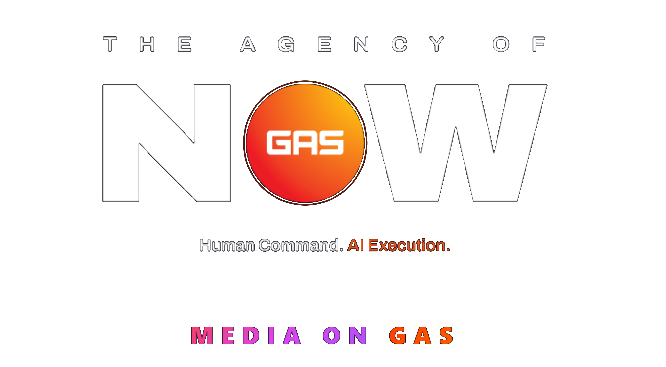
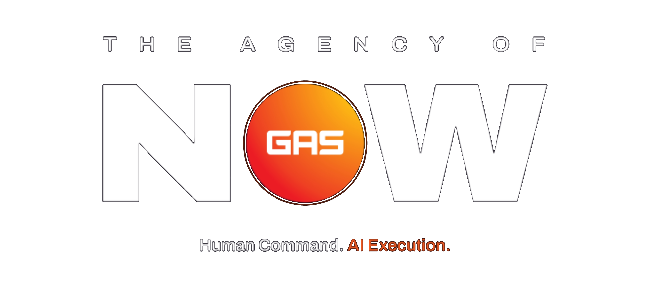
Team-report header: crop MEDIA ON GAS from PNG, render as HTML (tight stack)
Owner ask: 'make the Media on GAS wording under logo 20% bigger'
then 'close the gap between Media on GAS and Daily Pulse so
Media on GAS looks like a sub headline and then the copy underneath
Daily Pulse.'

Solution: cropped the MEDIA ON GAS section out of the PNG banner
(banner was 666x367 → now 666x295 — kept 'THE AGENCY OF NOW' +
'Human Command. AI Execution.') and re-render MEDIA ON GAS as HTML
text below the image. HTML text can be sized freely (this ask +
future asks), stays crisp at any DPR, and lets the eyebrow sit
directly under it as a related sub-line.

## MEDIA ON GAS wordmark

Font-size 30px (was baked at ~24px in the PNG, +20% ≈ 30 rounded).
Letter-spacing 6px, weight 900. Solid colors — gradient text
(-webkit-background-clip: text) is unreliable in Outlook + some
Gmail views, so hex fallbacks: 'MEDIA ON' in orchid #A855F7, 'GAS'
in ember #F96203. Matches the gradient in the source PNG at a
distance.

## Stack tightening

MEDIA ON GAS margin-bottom → 2px, eyebrow margin-top → 0. That
puts ~2px between the wordmark and 'Daily Pulse' so they read as
one unit (headline + sub-headline), with the date sitting slightly
lower as its own line.

Same treatment on all three team reports:
 - daily-report.js: 'Daily Pulse' + date
 - weekly-pulse.js: 'Weekly Pulse' + week label
 - weekly-summary.js: 'Weekly Activity Summary'

Asset unchanged path — dashboard/public/GAS_EMAIL_HEADER.png
overwritten in place, all three templates keep the same reference.
[…]

diff --git a/api/daily-report.js b/api/daily-report.js
@@ -408,7 +408,14 @@ function buildHtml(opts) {
 
       '<tr><td style="padding:28px 36px 20px;text-align:center;">' +
       logoBlock +
-      '<div style="font-size:11px;color:' + P.ember + ';letter-spacing:6px;font-weight:800;margin-top:8px;margin-bottom:4px;text-transform:uppercase;font-family:Manrope,Helvetica,Arial,sans-serif;">Daily Pulse</div>' +
+      // MEDIA ON GAS wordmark rendered as HTML text so it can be sized
+      // independently of the header image (cropped out of the PNG to
+      // separate its scale from the banner scale). Solid colors —
+      // gradient text is unreliable in Outlook + some Gmail views.
+      '<div style="font-size:30px;font-weight:900;letter-spacing:6px;text-transform:uppercase;font-family:Manrope,Helvetica,Arial,sans-serif;line-height:1;margin-top:6px;margin-bottom:2px;">' +
+        '<span style="color:#A855F7;">MEDIA ON </span><span style="color:' + P.ember + ';">GAS</span>' +
+      '</div>' +
+      '<div style="font-size:11px;color:' + P.ember + ';letter-spacing:6px;font-weight:800;margin-top:0;margin-bottom:8px;text-transform:uppercase;font-family:Manrope,Helvetica,Arial,sans-serif;">Daily Pulse</div>' +
       '<div style="font-size:11px;color:' + P.caption + ';letter-spacing:3px;text-transform:uppercase;font-weight:700;font-family:Manrope,Helvetica,Arial,sans-serif;">' + escapeHtml(dateLabel) + '</div>' +
       '</td></tr>' +
 

diff --git a/api/weekly-pulse.js b/api/weekly-pulse.js
@@ -587,7 +587,12 @@ function buildHtml(opts) {
 
       '<tr><td class="pulse-pad" style="padding:28px 36px 20px;text-align:center;">' +
       logoBlock +
-      '<div class="pulse-eyebrow" style="font-size:11px;color:' + P.ember + ';letter-spacing:6px;font-weight:800;margin-top:8px;margin-bottom:4px;text-transform:uppercase;font-family:Manrope,Helvetica,Arial,sans-serif;">Weekly Pulse</div>' +
+      // MEDIA ON GAS wordmark as HTML text — see daily-report.js for
+      // rationale (cropped out of the PNG so it can be sized freely).
+      '<div class="pulse-headline" style="font-size:30px;font-weight:900;letter-spacing:6px;text-transform:uppercase;font-family:Manrope,Helvetica,Arial,sans-serif;line-height:1;margin-top:6px;margin-bottom:2px;">' +
+        '<span style="color:#A855F7;">MEDIA ON </span><span style="color:' + P.ember + ';">GAS</span>' +
+      '</div>' +
+      '<div class="pulse-eyebrow" style="font-size:11px;color:' + P.ember + ';letter-spacing:6px;font-weight:800;margin-top:0;margin-bottom:8px;text-transform:uppercase;font-family:Manrope,Helvetica,Arial,sans-serif;">Weekly Pulse</div>' +
       '<div style="font-size:11px;color:' + P.caption + ';letter-spacing:3px;text-transform:uppercase;font-weight:700;font-family:Manrope,Helvetica,Arial,sans-serif;">' + escapeHtml(weekLabel) + '</div>' +
       '</td></tr>' +
 

diff --git a/api/weekly-summary.js b/api/weekly-summary.js
@@ -279,9 +279,14 @@ function buildHtml(opts) {
     '<table role="presentation" width="100%" cellpadding="0" cellspacing="0" border="0" style="max-width:680px;background:linear-gradient(170deg,#0F1820 0%,#13202C 100%);border-radius:20px;overflow:hidden;border:1px solid rgba(168,85,247,0.18);">' +
 
     // Header
-    '<tr><td style="padding:36px 40px 24px;text-align:center;">' +
+    '<tr><td style="padding:32px 40px 22px;text-align:center;">' +
     logoBlock +
-    '<div style="font-size:11px;color:#F96203;letter-spacing:6px;font-weight:800;margin-top:8px;margin-bottom:4px;text-transform:uppercase;">Weekly Activity Summary</div>' +
+    // MEDIA ON GAS wordmark as HTML text — see daily-report.js for
+    // rationale (cropped out of the PNG so it can be sized freely).
+    '<div style="font-size:30px;font-weight:900;letter-spacing:6px;text-transform:uppercase;font-family:Manrope,Helvetica,Arial,sans-serif;line-height:1;margin-top:6px;margin-bottom:2px;">' +
+      '<span style="color:#A855F7;">MEDIA ON </span><span style="color:#F96203;">GAS</span>' +
+    '</div>' +
+    '<div style="font-size:11px;color:#F96203;letter-spacing:6px;font-weight:800;margin-top:0;margin-bottom:8px;text-transform:uppercase;">Weekly Activity Summary</div>' +
     '</td></tr>' +
 
     // Divider
